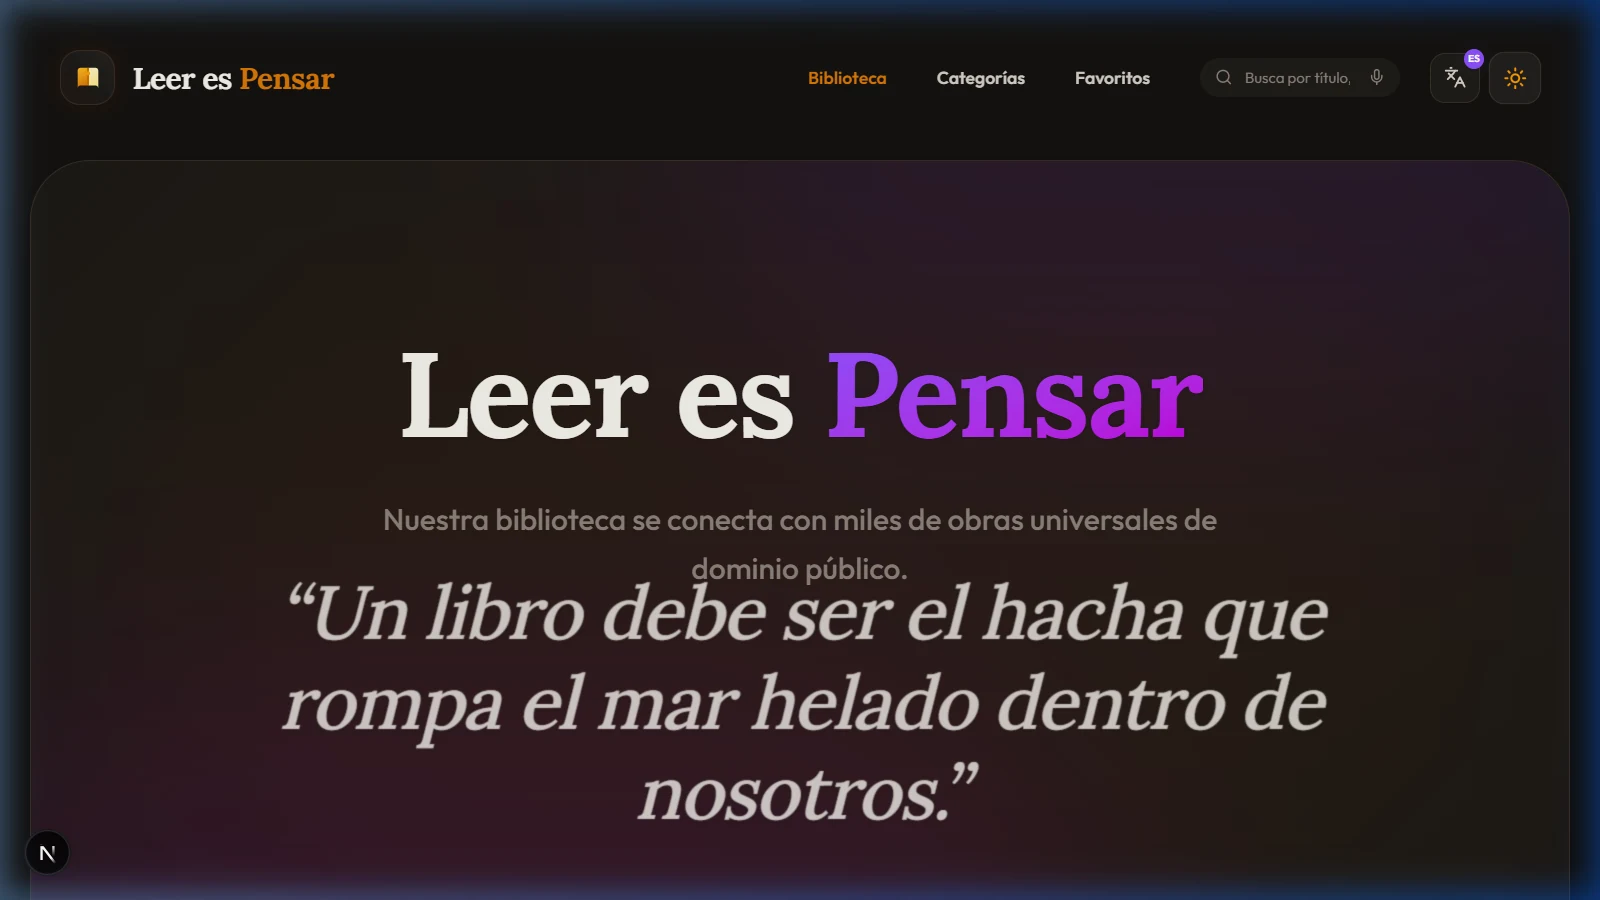
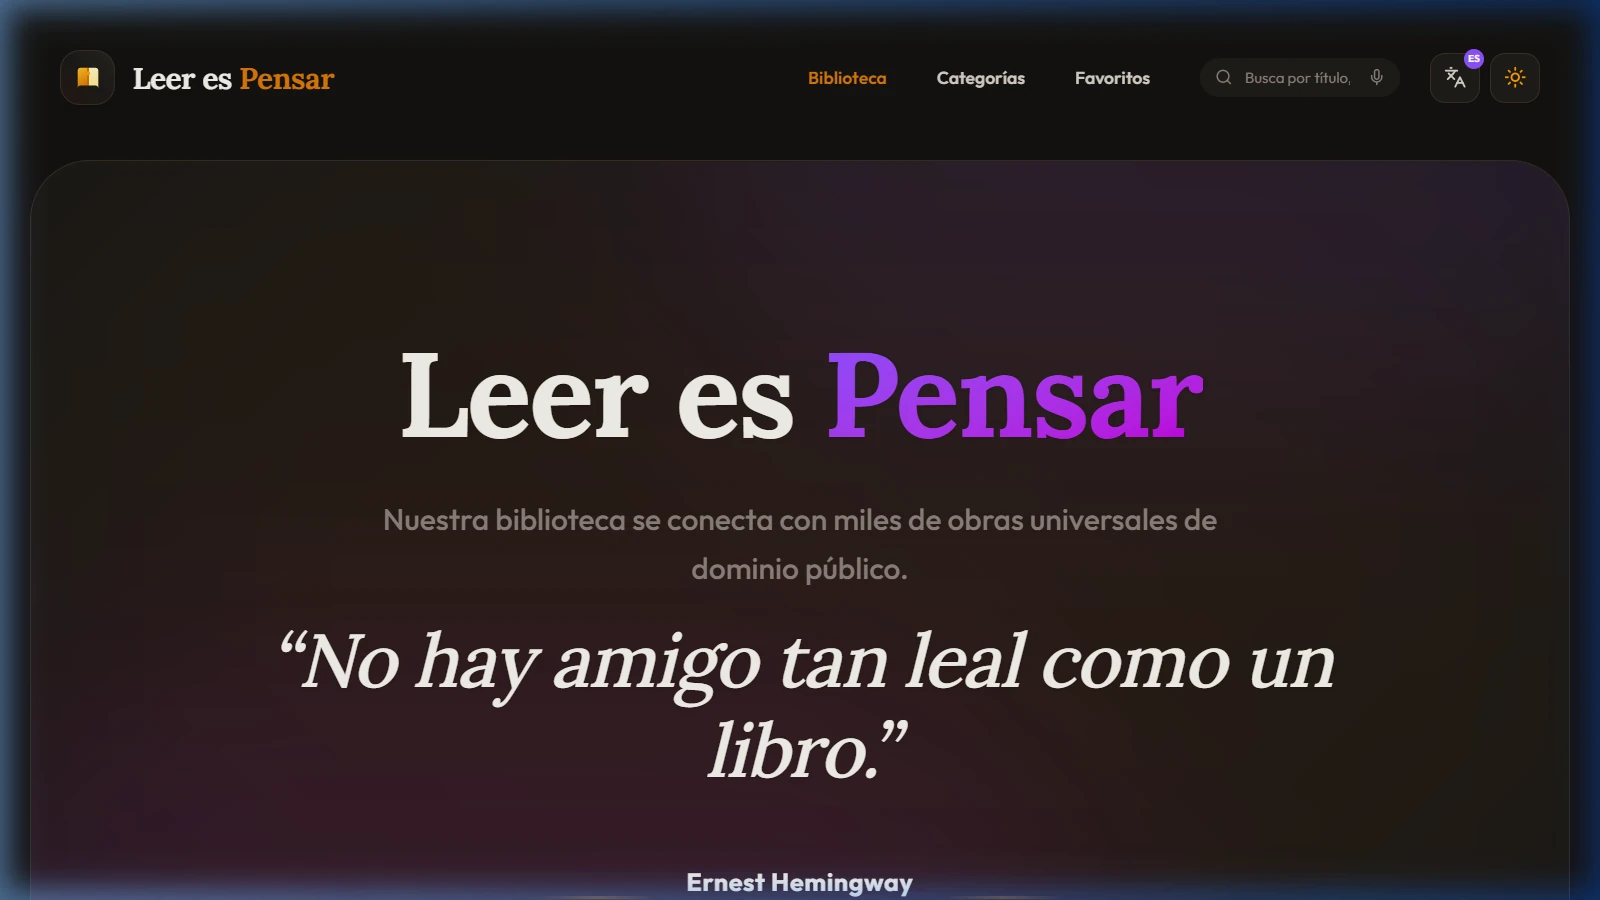
docs: update README preview with newly captured dark mode screenshot

diff --git a/README.md b/README.md
@@ -19,7 +19,7 @@
   <br />
 
   <a href="https://frankusqabant.github.io/Proyecto-Library/">
-    <img src="public/preview-library.webp" alt="Vista Previa de Leer es Pensar" width="900" style="border-radius: 14px; border: 1px solid rgba(217, 119, 6, 0.35); box-shadow: 0 16px 45px rgba(0,0,0,0.6);" />
+    <img src="public/preview-zen-library.webp" alt="Vista Previa de Leer es Pensar" width="900" style="border-radius: 14px; border: 1px solid rgba(217, 119, 6, 0.35); box-shadow: 0 16px 45px rgba(0,0,0,0.6);" />
   </a>
 
   <br><br>
